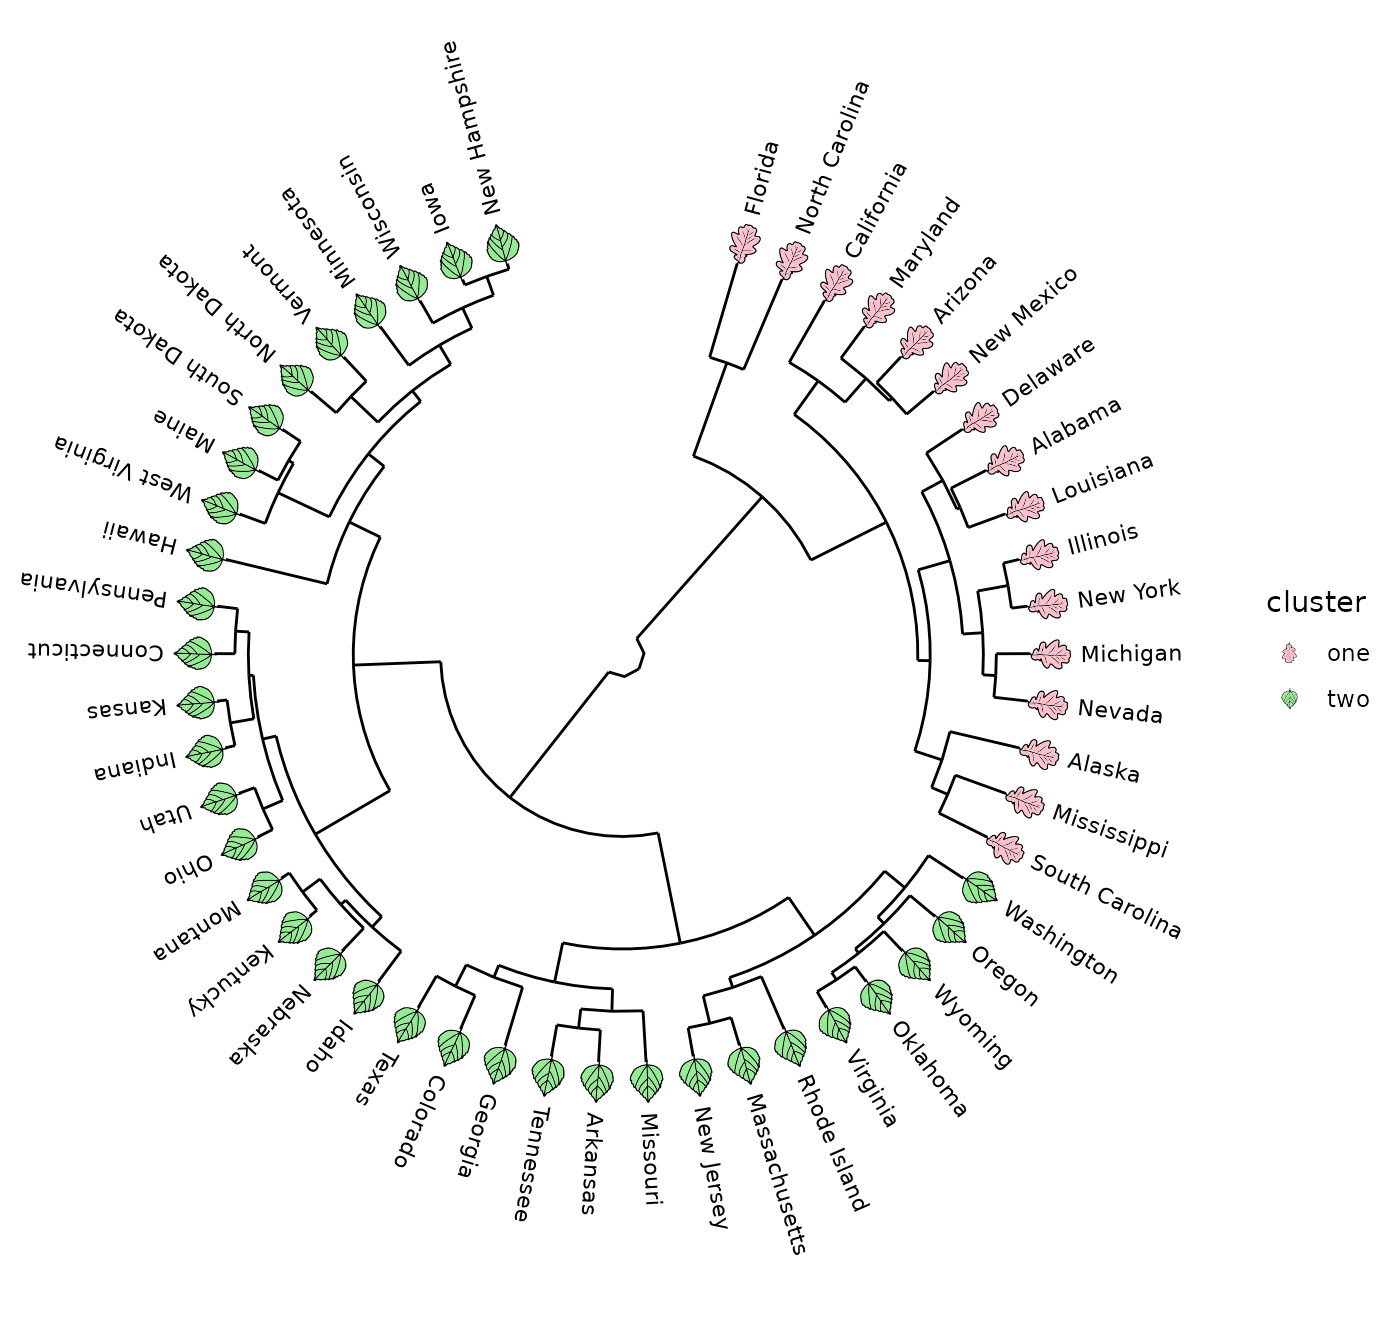
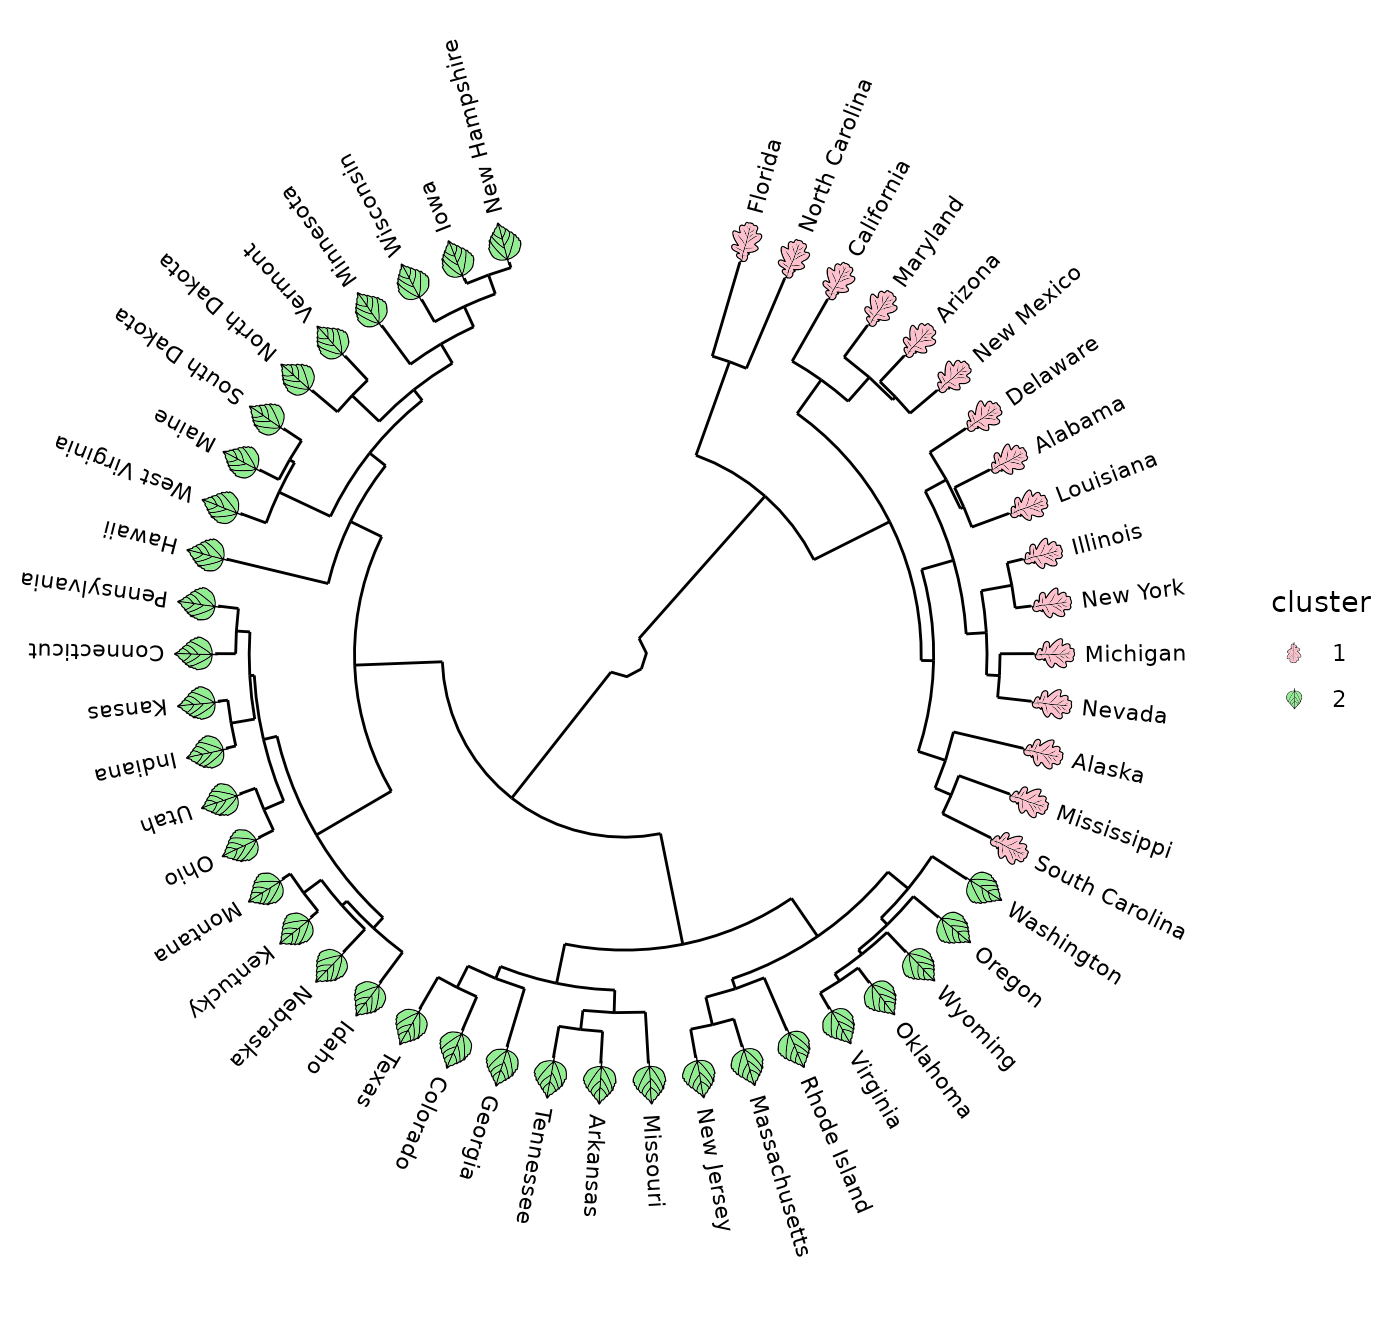
Deploying to gh-pages from @ cgoo4/ggfoundry@a9a82efd00a2a4c1897e02c136982189ae5a32df 🚀

diff --git a/articles/example_uses.html b/articles/example_uses.html
@@ -237,17 +237,25 @@ used here to augment a <a href="https://github.com/andrie/ggdendro" class="exter
 arguments, we could visualise a radial dendrogram with the leaves
 rotated consistent with the branches.</p>
 <div class="sourceCode" id="cb7"><pre class="downlit sourceCode r">
-<code class="sourceCode R"><span><span class="va">data</span> <span class="op">&lt;-</span> <span class="fu"><a href="https://rdrr.io/r/stats/hclust.html" class="external-link">hclust</a></span><span class="op">(</span><span class="fu"><a href="https://rdrr.io/r/stats/dist.html" class="external-link">dist</a></span><span class="op">(</span><span class="va">USArrests</span><span class="op">)</span>, <span class="st">"ave"</span><span class="op">)</span> <span class="op">|&gt;</span></span>
+<code class="sourceCode R"><span><span class="va">data</span> <span class="op">&lt;-</span> <span class="fu"><a href="https://rdrr.io/r/stats/hclust.html" class="external-link">hclust</a></span><span class="op">(</span><span class="fu"><a href="https://rdrr.io/r/stats/dist.html" class="external-link">dist</a></span><span class="op">(</span><span class="va">USArrests</span><span class="op">)</span>, <span class="st">"ave"</span><span class="op">)</span> <span class="op">|&gt;</span> </span>
 <span>  <span class="fu"><a href="https://andrie.github.io/ggdendro/reference/dendro_data.html" class="external-link">dendro_data</a></span><span class="op">(</span>type <span class="op">=</span> <span class="st">"rectangle"</span><span class="op">)</span></span>
 <span></span>
+<span><span class="va">cluster</span> <span class="op">&lt;-</span> <span class="fu"><a href="https://rdrr.io/r/stats/hclust.html" class="external-link">hclust</a></span><span class="op">(</span><span class="fu"><a href="https://rdrr.io/r/stats/dist.html" class="external-link">dist</a></span><span class="op">(</span><span class="va">USArrests</span><span class="op">)</span>, <span class="st">"ave"</span><span class="op">)</span> <span class="op">|&gt;</span> </span>
+<span>  <span class="fu"><a href="https://rdrr.io/r/stats/cutree.html" class="external-link">cutree</a></span><span class="op">(</span>k <span class="op">=</span> <span class="fl">2</span><span class="op">)</span> <span class="op">|&gt;</span> </span>
+<span>  <span class="fu"><a href="https://tibble.tidyverse.org/reference/as_tibble.html" class="external-link">as_tibble</a></span><span class="op">(</span>rownames <span class="op">=</span> <span class="st">"label"</span><span class="op">)</span> <span class="op">|&gt;</span> </span>
+<span>  <span class="fu"><a href="https://dplyr.tidyverse.org/reference/mutate.html" class="external-link">mutate</a></span><span class="op">(</span>cluster <span class="op">=</span> <span class="fu"><a href="https://rdrr.io/r/base/factor.html" class="external-link">factor</a></span><span class="op">(</span><span class="va">value</span><span class="op">)</span>, .keep <span class="op">=</span> <span class="st">"unused"</span><span class="op">)</span></span>
+<span></span>
 <span><span class="va">num_leaves</span> <span class="op">&lt;-</span> <span class="fu"><a href="https://rdrr.io/r/base/nrow.html" class="external-link">nrow</a></span><span class="op">(</span><span class="va">data</span><span class="op">$</span><span class="va">labels</span><span class="op">)</span></span>
+<span><span class="va">offset</span> <span class="op">&lt;-</span> <span class="fl">15</span> <span class="co"># Degrees by which the first branch is rotated</span></span>
+<span><span class="va">from</span> <span class="op">&lt;-</span>  <span class="fl">90</span> <span class="op">-</span> <span class="va">offset</span> <span class="co"># First text label</span></span>
+<span><span class="va">by</span> <span class="op">&lt;-</span> <span class="op">-</span><span class="op">(</span><span class="fl">360</span> <span class="op">-</span> <span class="op">(</span><span class="fl">2</span> <span class="op">*</span> <span class="va">offset</span><span class="op">)</span><span class="op">)</span> <span class="op">/</span> <span class="op">(</span><span class="va">num_leaves</span> <span class="op">-</span> <span class="fl">1</span><span class="op">)</span> <span class="co"># Degrees between labels</span></span>
 <span></span>
 <span><span class="va">leaves</span> <span class="op">&lt;-</span> <span class="va">data</span><span class="op">$</span><span class="va">labels</span> <span class="op">|&gt;</span></span>
 <span>  <span class="fu"><a href="https://dplyr.tidyverse.org/reference/mutate.html" class="external-link">mutate</a></span><span class="op">(</span></span>
-<span>    angle <span class="op">=</span> <span class="fu"><a href="https://rdrr.io/r/base/seq.html" class="external-link">seq</a></span><span class="op">(</span><span class="fl">75</span>, <span class="op">-</span><span class="fl">255</span>, length.out <span class="op">=</span> <span class="va">num_leaves</span><span class="op">)</span>,</span>
-<span>    shape_angle <span class="op">=</span> <span class="fu"><a href="https://rdrr.io/r/base/seq.html" class="external-link">seq</a></span><span class="op">(</span><span class="fl">162</span>, <span class="op">-</span><span class="fl">165</span>, length.out <span class="op">=</span> <span class="va">num_leaves</span><span class="op">)</span>,</span>
-<span>    cluster <span class="op">=</span> <span class="fu"><a href="https://dplyr.tidyverse.org/reference/if_else.html" class="external-link">if_else</a></span><span class="op">(</span><span class="va">x</span> <span class="op">&lt;=</span> <span class="fl">16</span>, <span class="st">"one"</span>, <span class="st">"two"</span><span class="op">)</span></span>
-<span>  <span class="op">)</span></span>
+<span>    angle <span class="op">=</span> <span class="fu"><a href="https://rdrr.io/r/base/seq.html" class="external-link">seq</a></span><span class="op">(</span>from <span class="op">=</span> <span class="va">from</span>, by <span class="op">=</span> <span class="va">by</span>, length.out <span class="op">=</span> <span class="va">num_leaves</span><span class="op">)</span>, </span>
+<span>    shape_angle <span class="op">=</span> <span class="fu"><a href="https://rdrr.io/r/base/seq.html" class="external-link">seq</a></span><span class="op">(</span><span class="va">from</span> <span class="op">+</span> <span class="fl">90</span>, by <span class="op">=</span> <span class="va">by</span>, length.out <span class="op">=</span> <span class="va">num_leaves</span><span class="op">)</span>,</span>
+<span>  <span class="op">)</span> <span class="op">|&gt;</span> </span>
+<span>  <span class="fu"><a href="https://dplyr.tidyverse.org/reference/mutate-joins.html" class="external-link">left_join</a></span><span class="op">(</span><span class="va">cluster</span>, <span class="fu"><a href="https://dplyr.tidyverse.org/reference/join_by.html" class="external-link">join_by</a></span><span class="op">(</span><span class="va">label</span><span class="op">)</span><span class="op">)</span></span>
 <span></span>
 <span><span class="fu"><a href="https://ggplot2.tidyverse.org/reference/ggplot.html" class="external-link">ggplot</a></span><span class="op">(</span><span class="op">)</span> <span class="op">+</span></span>
 <span>  <span class="fu"><a href="https://ggplot2.tidyverse.org/reference/geom_segment.html" class="external-link">geom_segment</a></span><span class="op">(</span></span>
